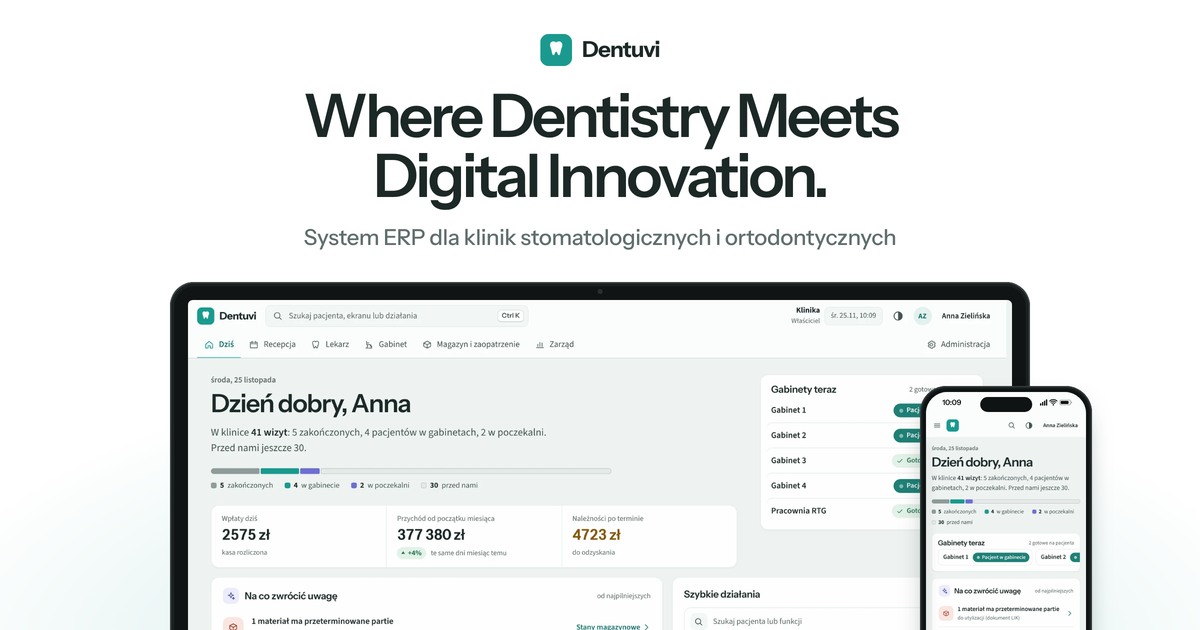
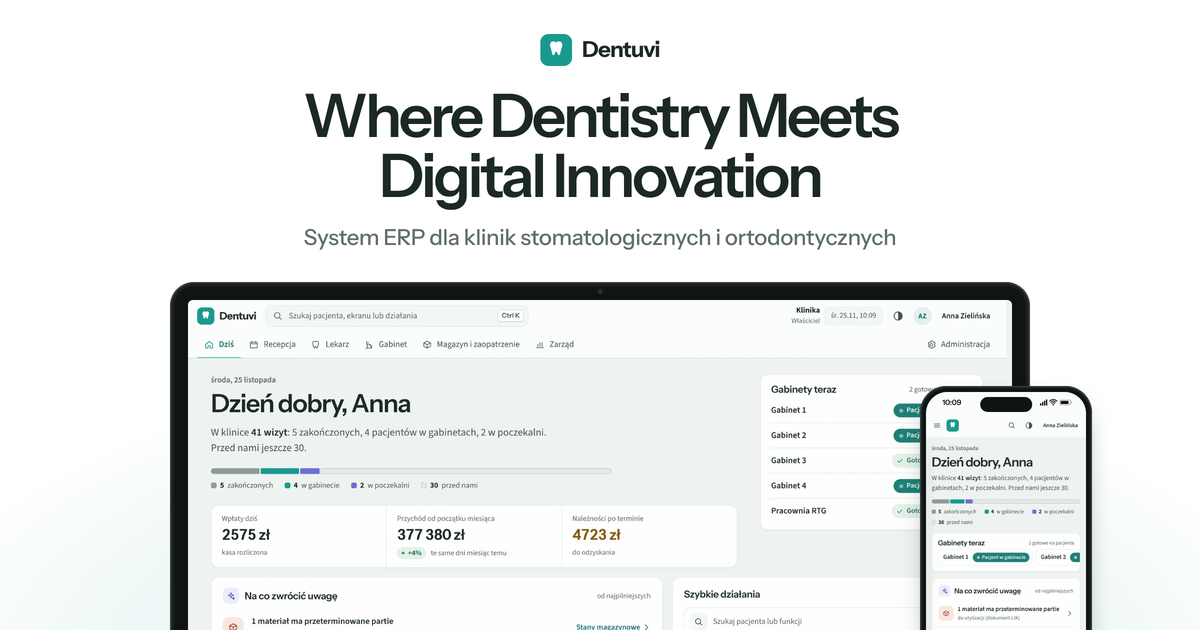
Naprawa menu na telefonie, nagłówek bez kropki
- Menu otwierane przyciskiem z dwiema kreskami zajmuje cały ekran pod
  paskiem: przy otwartym menu pasek traci rozmycie tła (backdrop-filter
  ustawiał menu względem paska zamiast ekranu), a blokada przewijania
  działa na korzeniu dokumentu (blokada na body odrywała przyklejony
  pasek od góry)
- Tło menu w pełni kryjące, fokus na pierwszym linku, treść pod menu
  nieaktywna (inert), łagodne wejście z poszanowaniem ograniczenia ruchu
- H1 i obraz do udostępnień: „Where Dentistry Meets Digital Innovation”
  bez kropki

Claude-Session: https://claude.ai/code/session_013ULRzyk52FW8RG4ig33BLA

Changed region(s): [[0.3083, 0.2413, 0.7092, 0.3317]]

diff --git a/public/assets/css/site.css b/public/assets/css/site.css
@@ -302,8 +302,9 @@ body.nav-open .menu-btn .m{display:none}
 @media (max-width:1060px){
   .menu-btn{display:grid}
   .nav-login{display:none}
-  .menu{position:fixed;inset:56px 0 0 0;display:none;flex-direction:column;align-items:stretch;gap:0;margin:0;padding:18px var(--gut) 40px;background:rgba(255,255,255,.97);-webkit-backdrop-filter:blur(20px);backdrop-filter:blur(20px);overflow-y:auto}
-  body.nav-open{overflow:hidden}
+  .menu{position:fixed;inset:57px 0 0 0;display:none;flex-direction:column;align-items:stretch;gap:0;margin:0;padding:18px var(--gut) max(40px,env(safe-area-inset-bottom));background:#fff;overflow-y:auto;overscroll-behavior:contain}
+  html:has(body.nav-open){overflow:hidden}
+body.nav-open .nav{background:#fff;-webkit-backdrop-filter:none;backdrop-filter:none}
   body.nav-open .menu{display:flex}
   .menu a{padding:16px 4px;border-bottom:1px solid var(--line);border-radius:0;font:600 24px/1.2 var(--d);letter-spacing:-.025em;color:var(--ink)}
   .menu .m-login{display:block;color:var(--teal-ink)}
@@ -384,6 +385,12 @@ html:has(.lb[open]){overflow:hidden}
   .lb[open]::backdrop{animation:lb-fade .3s ease}
   @keyframes lb-in{from{opacity:0;transform:scale(.97)}}
   @keyframes lb-fade{from{opacity:0}}
+}
+
+/* menu na wąskich ekranach: łagodne wejście */
+@media (prefers-reduced-motion:no-preference) and (max-width:1060px){
+  body.nav-open .menu{animation:menu-in .28s var(--ease)}
+  @keyframes menu-in{from{opacity:0;transform:translateY(-8px)}}
 }
 
 /* klawisze skrótów */

diff --git a/public/index.html b/public/index.html
@@ -27,7 +27,7 @@
 <link rel="preload" href="assets/fonts/instrument-sans-latin.woff2" as="font" type="font/woff2" crossorigin>
 <link rel="preload" href="assets/fonts/instrument-sans-pl.woff2" as="font" type="font/woff2" crossorigin>
 <link rel="preload" href="assets/fonts/source-sans-3-latin.woff2" as="font" type="font/woff2" crossorigin>
-<link rel="stylesheet" href="assets/css/site.css?v=413c44e4f6">
+<link rel="stylesheet" href="assets/css/site.css?v=2be56b9883">
 <script type="application/ld+json">
 {
  "@context": "https://schema.org",
@@ -194,7 +194,7 @@
 <section class="hero" id="top" aria-labelledby="h-top">
   <div class="wrap hero-in">
     <svg class="hero-logo" viewBox="0 0 34 34" aria-hidden="true"><use href="#logo"/></svg>
-    <h1 id="h-top" lang="en">Where Dentistry Meets<br> Digital Innovation.</h1>
+    <h1 id="h-top" lang="en">Where Dentistry Meets<br> Digital Innovation</h1>
     <p class="hero-sub">Dentuvi łączy pracę recepcji, gabinetów i zaplecza z informacjami o pacjentach, płatnościach i wynikach kliniki. Tworzy jedno cyfrowe środowisko, które porządkuje najważniejsze procesy i dostarcza danych wspierających świadome zarządzanie oraz rozwój placówki.</p>
     <div class="hero-cta">
       <a class="btn btn-pri" href="#kontakt">Umów prezentację</a>
@@ -477,6 +477,6 @@
     </div>
   </div>
 </dialog>
-<script src="assets/js/site.js?v=346ea9ee1c" defer></script>
+<script src="assets/js/site.js?v=2548b0ee2f" defer></script>
 </body>
 </html>

diff --git a/public/assets/js/site.js b/public/assets/js/site.js
@@ -6,15 +6,22 @@
   /* menu na wąskich ekranach */
   const menuBtn = doc.querySelector('.menu-btn');
   const menu = doc.getElementById('menu');
+  // treść pod otwartym menu jest nieaktywna: fokus i kliknięcia zostają w menu
+  const behind = [doc.getElementById('tresc'), doc.querySelector('.ftr')].filter(Boolean);
   const setMenu = open => {
     body.classList.toggle('nav-open', open);
+    behind.forEach(el => { el.inert = open; });
     if (menuBtn) {
       menuBtn.setAttribute('aria-expanded', String(open));
       menuBtn.setAttribute('aria-label', open ? 'Zamknij menu' : 'Otwórz menu');
     }
   };
   if (menuBtn && menu) {
-    menuBtn.addEventListener('click', () => setMenu(!body.classList.contains('nav-open')));
+    menuBtn.addEventListener('click', () => {
+      const open = !body.classList.contains('nav-open');
+      setMenu(open);
+      if (open) { const first = menu.querySelector('a'); if (first) first.focus({ preventScroll: true }); }
+    });
     menu.addEventListener('click', e => { if (e.target.closest('a')) setMenu(false); });
     window.addEventListener('keydown', e => { if (e.key === 'Escape' && body.classList.contains('nav-open')) { setMenu(false); menuBtn.focus(); } });
     const wide = window.matchMedia('(min-width: 1061px)');

diff --git a/src/index.html b/src/index.html
@@ -78,7 +78,7 @@
 <section class="hero" id="top" aria-labelledby="h-top">
   <div class="wrap hero-in">
     <svg class="hero-logo" viewBox="0 0 34 34" aria-hidden="true"><use href="#logo"/></svg>
-    <h1 id="h-top" lang="en">Where Dentistry Meets<br> Digital Innovation.</h1>
+    <h1 id="h-top" lang="en">Where Dentistry Meets<br> Digital Innovation</h1>
     <p class="hero-sub">Dentuvi łączy pracę recepcji, gabinetów i zaplecza z informacjami o pacjentach, płatnościach i wynikach kliniki. Tworzy jedno cyfrowe środowisko, które porządkuje najważniejsze procesy i dostarcza danych wspierających świadome zarządzanie oraz rozwój placówki.</p>
     <div class="hero-cta">
       <a class="btn btn-pri" href="#kontakt">Umów prezentację</a>

diff --git a/public/polityka-prywatnosci.html b/public/polityka-prywatnosci.html
@@ -10,7 +10,7 @@
 <link rel="icon" href="favicon.ico" sizes="32x32">
 <link rel="icon" href="favicon.svg" type="image/svg+xml">
 <link rel="apple-touch-icon" href="apple-touch-icon.png">
-<link rel="stylesheet" href="assets/css/site.css?v=413c44e4f6">
+<link rel="stylesheet" href="assets/css/site.css?v=2be56b9883">
 </head>
 <body>
 <header class="wrap doc-hdr">

diff --git a/public/404.html b/public/404.html
@@ -8,7 +8,7 @@
 <meta name="theme-color" content="#ffffff">
 <link rel="icon" href="/favicon.ico" sizes="32x32">
 <link rel="icon" href="/favicon.svg" type="image/svg+xml">
-<link rel="stylesheet" href="/assets/css/site.css?v=413c44e4f6">
+<link rel="stylesheet" href="/assets/css/site.css?v=2be56b9883">
 </head>
 <body>
 <header class="wrap doc-hdr">
